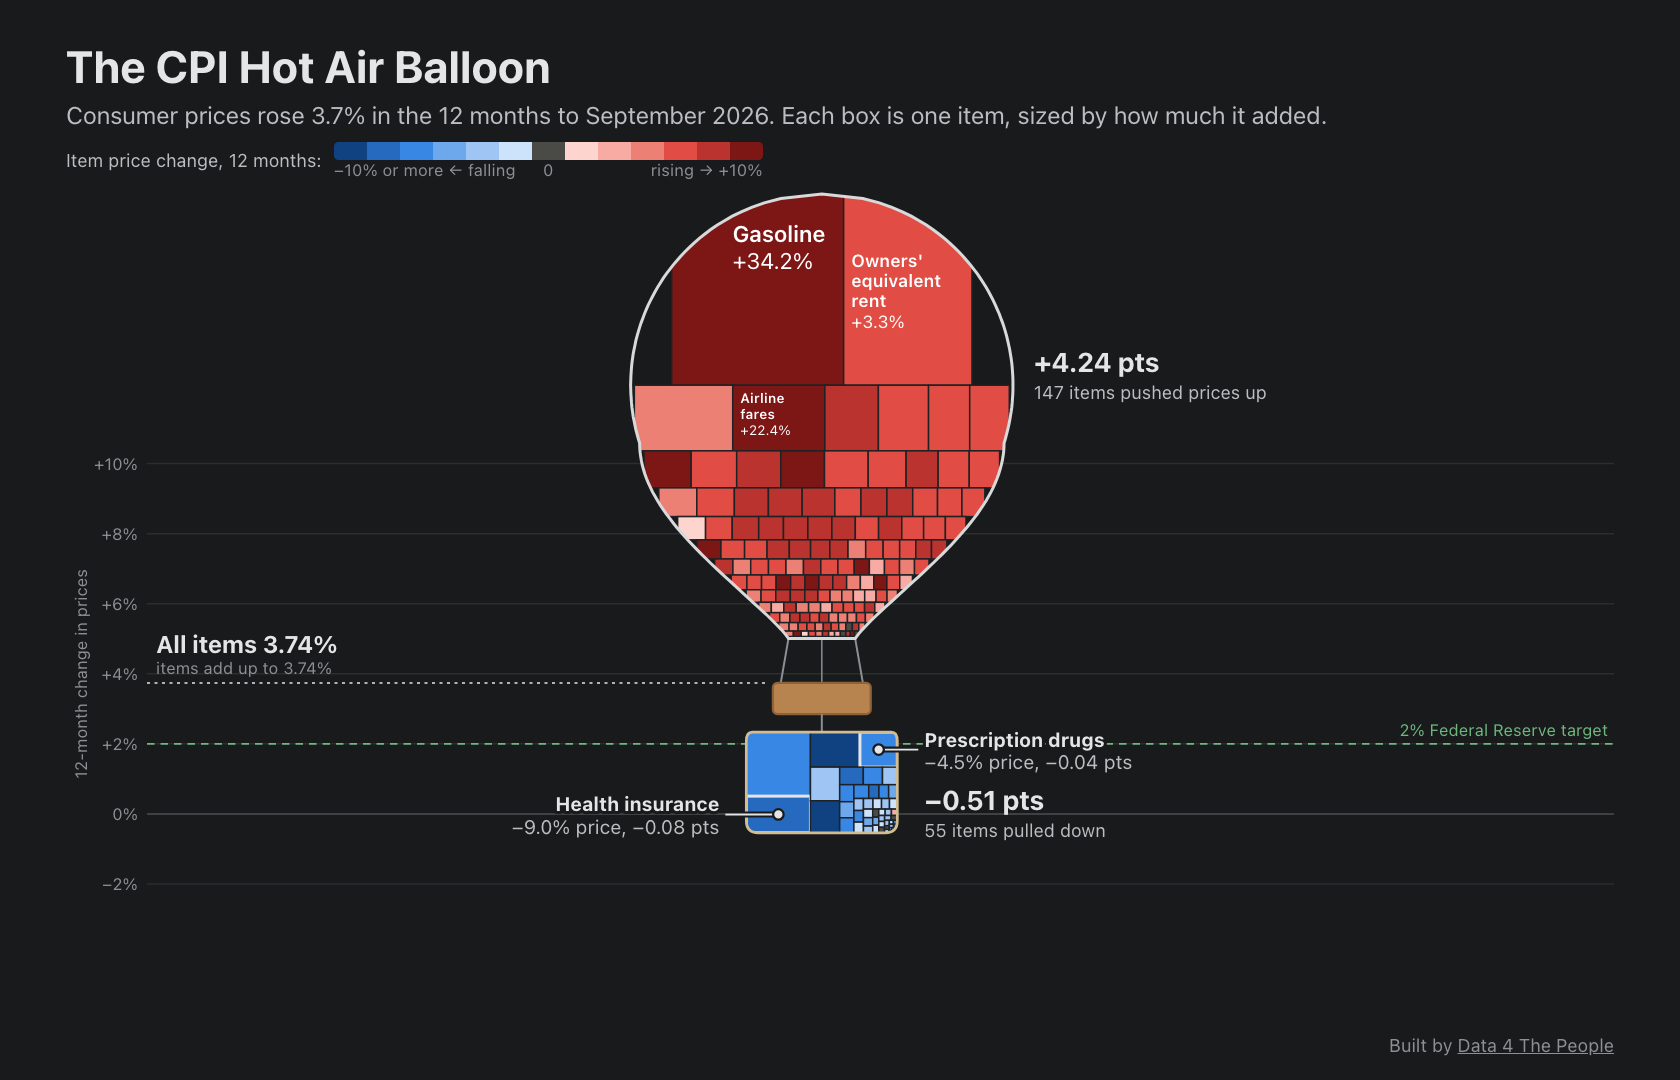
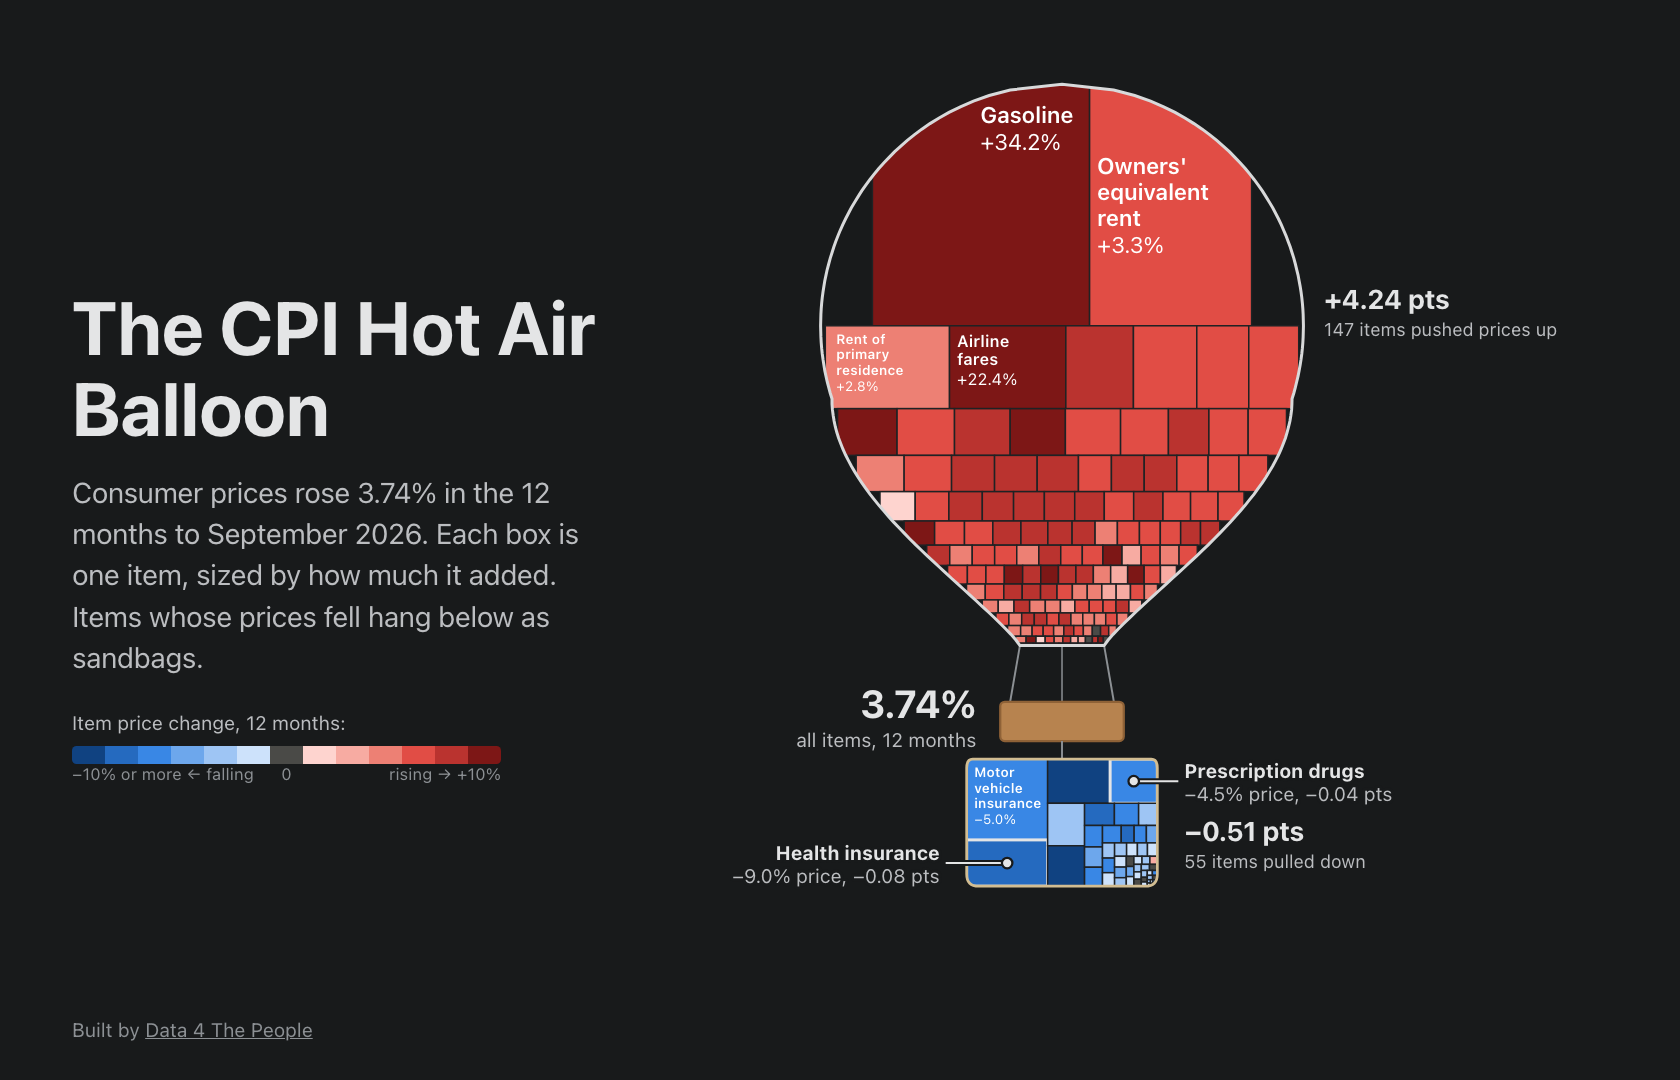
cpi-september-2026: back to 2d, hero is the balloon alone with title at left; 2e front matter drafted

diff --git a/dist/index.html b/dist/index.html
@@ -77,13 +77,19 @@ body.series #timeline{display:flex}
 #strip{flex:1;min-width:0;height:52px;display:block;cursor:pointer;touch-action:none}
 #note{display:none;font-size:11.5px;color:var(--muted);padding-top:3px}
 body.series #note{display:block;min-height:16px}
-/* #hero: a still for the post's hero image; no controls, a larger balloon. */
-body.hero #app{height:100vh;max-width:none;padding:26px 44px 16px}
-body.hero .seg,body.hero #timeline,body.hero #note,body.hero #source{display:none}
-body.hero header h1{font-size:30px}
-body.hero header p{font-size:16px}
-body.hero #controls{margin:6px 0 0}
-body.hero footer{justify-content:flex-end;font-size:12px}
+/* #hero: a still for the post's hero image. The balloon alone on the right, no axis;
+   the title, a line of text and the color key on the left. */
+body.hero #app{height:100vh;max-width:none;padding:40px 48px 26px;display:grid;
+  grid-template-columns:36% 1fr;grid-template-rows:1fr auto auto 1fr auto;column-gap:28px}
+body.hero header{grid-column:1;grid-row:2}
+body.hero #controls{grid-column:1;grid-row:3;margin:22px 0 0}
+body.hero #stage{grid-column:2;grid-row:1 / 6}
+body.hero #side{display:none}
+body.hero footer{grid-column:1;grid-row:5;font-size:13px}
+body.hero .seg,body.hero #source{display:none}
+body.hero header h1{font-size:50px;line-height:1.08;margin-bottom:16px}
+body.hero header p{font-size:19px;line-height:1.45}
+body.hero #legend{font-size:13px}
 @container (max-width:620px){
   #when{min-width:84px;font-size:13px}
   #timeline{flex-wrap:wrap;row-gap:4px}
@@ -357,7 +363,7 @@ function render() {
   $('#dek').textContent = `${what} ${verb} ${Math.abs(V.published).toFixed(2)}% in the 12 months to ${M.label}. Each box is one item: its size is how much it added, its color is how much its own price changed. Items that lowered inflation hang below as sandbags.` +
     (SERIES ? ' The balloon grows with the total pushing prices up.' : '');
   if (HERO) { $('#title').textContent = 'The CPI Hot Air Balloon';
-    $('#dek').textContent = `${what} ${verb} ${Math.abs(V.published).toFixed(1)}% in the 12 months to ${M.label}. Each box is one item, sized by how much it added.`; }
+    $('#dek').textContent = `${what} ${verb} ${Math.abs(V.published).toFixed(2)}% in the 12 months to ${M.label}. Each box is one item, sized by how much it added. Items whose prices fell hang below as sandbags.`; }
   if (SERIES) { $('#when').textContent = M.label; $('#note').textContent = M.note || ''; drawStrip(); }
   $('#source').textContent = DATA.source;
   legend();
@@ -368,7 +374,7 @@ function render() {
   const axisX = narrow ? 34 : 54;
   // Fixed envelope size so later months are drawn at the same size.
   // The timeline version draws its largest balloon a bit smaller, leaving room for the altitude to move.
-  const envHMax = Math.min(H * (HERO ? 0.62 : SERIES ? 0.44 : 0.48), (W - axisX - 30) / (2 * 0.43) * 0.98);
+  const envHMax = Math.min(H * (HERO ? 0.66 : SERIES ? 0.44 : 0.48), (W - axisX - 30) / (2 * 0.43) * 0.98);
   const basketH = Math.max(18, envHMax * 0.07), basketW = envHMax * 0.22;
   const rank = RANK[state.view];
   const order = SERIES ? (a, b) => (rank[b.id] - rank[a.id]) || (b.v - a.v) : (a, b) => b.v - a.v;
@@ -388,7 +394,11 @@ function render() {
   // Altitude: the basket's top edge sits at the rate on the axis.
   const ax = DATA.axis;
   let yOf;
-  if (!SERIES && !HERO) {
+  if (HERO) {
+    const up = envH + ropeH, dn = basketH + tether + sackH;
+    const base = (H - up - dn) / 2 + up;
+    yOf = () => base;
+  } else if (!SERIES) {
     const top = 10 + above, bottom = H - below - 6;
     yOf = r => bottom - (r - ax.min) / (ax.max - ax.min) * (bottom - top);
   } else {
@@ -409,7 +419,7 @@ function render() {
   }
 
   // axis and grid
-  const ag = el('g', {}, svg);
+  const ag = el('g', HERO ? { display: 'none' } : {}, svg);
   for (let r = ax.min; r <= ax.max + 1e-9; r += ax.step) {
     const y = yOf(r);
     el('line', { x1: axisX, x2: W, y1: y, y2: y, stroke: r === 0 ? css('--axis') : css('--grid'), 'stroke-width': 1 }, ag);
@@ -424,7 +434,7 @@ function render() {
   }
 
   // the balloon group, translated to its altitude
-  const cx = axisX + (W - axisX) * (narrow ? 0.5 : 0.46);
+  const cx = HERO ? W * 0.42 : axisX + (W - axisX) * (narrow ? 0.5 : 0.46);
   const mover = el('g', { id: 'mover' }, svg);
   const baseY = yOf(V.published);
   const prev = svg.dataset.lastY ? +svg.dataset.lastY : baseY;
@@ -491,11 +501,19 @@ function render() {
   }
   // altitude marker: the published rate at the basket
   const mk = el('g', {}, mover);
+  if (HERO) {
+    const tx = cx - basketW / 2 - 16;
+    const h1 = el('text', { x: tx, y: baseY + basketH / 2 - 2, 'text-anchor': 'end', fill: css('--ink'), 'font-size': 26, class: 'big' }, mk);
+    h1.textContent = `${V.published.toFixed(2)}%`;
+    const h2 = el('text', { x: tx, y: baseY + basketH / 2 + 17, 'text-anchor': 'end', fill: css('--ink-2'), 'font-size': 13 }, mk);
+    h2.textContent = state.view === 'core' ? 'core CPI, 12 months' : 'all items, 12 months';
+  } else {
   el('line', { x1: axisX, x2: cx - basketW / 2 - 4, y1: baseY, y2: baseY, stroke: css('--ink'), 'stroke-width': 1, 'stroke-dasharray': '2 3' }, mk);
   const tag = el('text', { x: axisX + 6, y: baseY - 20, fill: css('--ink'), 'font-size': narrow ? 14 : 16, class: 'big' }, mk);
   tag.textContent = `${state.view === 'core' ? 'Core' : 'All items'} ${V.published.toFixed(2)}%`;
   const sub = el('text', { x: axisX + 6, y: baseY - 6, fill: css('--muted'), 'font-size': 11 }, mk);
   sub.textContent = `items add up to ${V.sum.toFixed(2)}%`;
+  }
   // glide from the previous altitude
   requestAnimationFrame(() => requestAnimationFrame(() => { mover.style.transition = ''; mover.style.transitionDuration = glide; mover.style.transform = 'translate(0px,0px)'; }));
   svg.dataset.lastY = baseY;

diff --git a/dist/over-time.html b/dist/over-time.html
@@ -77,13 +77,19 @@ body.series #timeline{display:flex}
 #strip{flex:1;min-width:0;height:52px;display:block;cursor:pointer;touch-action:none}
 #note{display:none;font-size:11.5px;color:var(--muted);padding-top:3px}
 body.series #note{display:block;min-height:16px}
-/* #hero: a still for the post's hero image; no controls, a larger balloon. */
-body.hero #app{height:100vh;max-width:none;padding:26px 44px 16px}
-body.hero .seg,body.hero #timeline,body.hero #note,body.hero #source{display:none}
-body.hero header h1{font-size:30px}
-body.hero header p{font-size:16px}
-body.hero #controls{margin:6px 0 0}
-body.hero footer{justify-content:flex-end;font-size:12px}
+/* #hero: a still for the post's hero image. The balloon alone on the right, no axis;
+   the title, a line of text and the color key on the left. */
+body.hero #app{height:100vh;max-width:none;padding:40px 48px 26px;display:grid;
+  grid-template-columns:36% 1fr;grid-template-rows:1fr auto auto 1fr auto;column-gap:28px}
+body.hero header{grid-column:1;grid-row:2}
+body.hero #controls{grid-column:1;grid-row:3;margin:22px 0 0}
+body.hero #stage{grid-column:2;grid-row:1 / 6}
+body.hero #side{display:none}
+body.hero footer{grid-column:1;grid-row:5;font-size:13px}
+body.hero .seg,body.hero #source{display:none}
+body.hero header h1{font-size:50px;line-height:1.08;margin-bottom:16px}
+body.hero header p{font-size:19px;line-height:1.45}
+body.hero #legend{font-size:13px}
 @container (max-width:620px){
   #when{min-width:84px;font-size:13px}
   #timeline{flex-wrap:wrap;row-gap:4px}
@@ -357,7 +363,7 @@ function render() {
   $('#dek').textContent = `${what} ${verb} ${Math.abs(V.published).toFixed(2)}% in the 12 months to ${M.label}. Each box is one item: its size is how much it added, its color is how much its own price changed. Items that lowered inflation hang below as sandbags.` +
     (SERIES ? ' The balloon grows with the total pushing prices up.' : '');
   if (HERO) { $('#title').textContent = 'The CPI Hot Air Balloon';
-    $('#dek').textContent = `${what} ${verb} ${Math.abs(V.published).toFixed(1)}% in the 12 months to ${M.label}. Each box is one item, sized by how much it added.`; }
+    $('#dek').textContent = `${what} ${verb} ${Math.abs(V.published).toFixed(2)}% in the 12 months to ${M.label}. Each box is one item, sized by how much it added. Items whose prices fell hang below as sandbags.`; }
   if (SERIES) { $('#when').textContent = M.label; $('#note').textContent = M.note || ''; drawStrip(); }
   $('#source').textContent = DATA.source;
   legend();
@@ -368,7 +374,7 @@ function render() {
   const axisX = narrow ? 34 : 54;
   // Fixed envelope size so later months are drawn at the same size.
   // The timeline version draws its largest balloon a bit smaller, leaving room for the altitude to move.
-  const envHMax = Math.min(H * (HERO ? 0.62 : SERIES ? 0.44 : 0.48), (W - axisX - 30) / (2 * 0.43) * 0.98);
+  const envHMax = Math.min(H * (HERO ? 0.66 : SERIES ? 0.44 : 0.48), (W - axisX - 30) / (2 * 0.43) * 0.98);
   const basketH = Math.max(18, envHMax * 0.07), basketW = envHMax * 0.22;
   const rank = RANK[state.view];
   const order = SERIES ? (a, b) => (rank[b.id] - rank[a.id]) || (b.v - a.v) : (a, b) => b.v - a.v;
@@ -388,7 +394,11 @@ function render() {
   // Altitude: the basket's top edge sits at the rate on the axis.
   const ax = DATA.axis;
   let yOf;
-  if (!SERIES && !HERO) {
+  if (HERO) {
+    const up = envH + ropeH, dn = basketH + tether + sackH;
+    const base = (H - up - dn) / 2 + up;
+    yOf = () => base;
+  } else if (!SERIES) {
     const top = 10 + above, bottom = H - below - 6;
     yOf = r => bottom - (r - ax.min) / (ax.max - ax.min) * (bottom - top);
   } else {
@@ -409,7 +419,7 @@ function render() {
   }
 
   // axis and grid
-  const ag = el('g', {}, svg);
+  const ag = el('g', HERO ? { display: 'none' } : {}, svg);
   for (let r = ax.min; r <= ax.max + 1e-9; r += ax.step) {
     const y = yOf(r);
     el('line', { x1: axisX, x2: W, y1: y, y2: y, stroke: r === 0 ? css('--axis') : css('--grid'), 'stroke-width': 1 }, ag);
@@ -424,7 +434,7 @@ function render() {
   }
 
   // the balloon group, translated to its altitude
-  const cx = axisX + (W - axisX) * (narrow ? 0.5 : 0.46);
+  const cx = HERO ? W * 0.42 : axisX + (W - axisX) * (narrow ? 0.5 : 0.46);
   const mover = el('g', { id: 'mover' }, svg);
   const baseY = yOf(V.published);
   const prev = svg.dataset.lastY ? +svg.dataset.lastY : baseY;
@@ -491,11 +501,19 @@ function render() {
   }
   // altitude marker: the published rate at the basket
   const mk = el('g', {}, mover);
+  if (HERO) {
+    const tx = cx - basketW / 2 - 16;
+    const h1 = el('text', { x: tx, y: baseY + basketH / 2 - 2, 'text-anchor': 'end', fill: css('--ink'), 'font-size': 26, class: 'big' }, mk);
+    h1.textContent = `${V.published.toFixed(2)}%`;
+    const h2 = el('text', { x: tx, y: baseY + basketH / 2 + 17, 'text-anchor': 'end', fill: css('--ink-2'), 'font-size': 13 }, mk);
+    h2.textContent = state.view === 'core' ? 'core CPI, 12 months' : 'all items, 12 months';
+  } else {
   el('line', { x1: axisX, x2: cx - basketW / 2 - 4, y1: baseY, y2: baseY, stroke: css('--ink'), 'stroke-width': 1, 'stroke-dasharray': '2 3' }, mk);
   const tag = el('text', { x: axisX + 6, y: baseY - 20, fill: css('--ink'), 'font-size': narrow ? 14 : 16, class: 'big' }, mk);
   tag.textContent = `${state.view === 'core' ? 'Core' : 'All items'} ${V.published.toFixed(2)}%`;
   const sub = el('text', { x: axisX + 6, y: baseY - 6, fill: css('--muted'), 'font-size': 11 }, mk);
   sub.textContent = `items add up to ${V.sum.toFixed(2)}%`;
+  }
   // glide from the previous altitude
   requestAnimationFrame(() => requestAnimationFrame(() => { mover.style.transition = ''; mover.style.transitionDuration = glide; mover.style.transform = 'translate(0px,0px)'; }));
   svg.dataset.lastY = baseY;

diff --git a/src/template.html b/src/template.html
@@ -72,13 +72,19 @@ body.series #timeline{display:flex}
 #strip{flex:1;min-width:0;height:52px;display:block;cursor:pointer;touch-action:none}
 #note{display:none;font-size:11.5px;color:var(--muted);padding-top:3px}
 body.series #note{display:block;min-height:16px}
-/* #hero: a still for the post's hero image; no controls, a larger balloon. */
-body.hero #app{height:100vh;max-width:none;padding:26px 44px 16px}
-body.hero .seg,body.hero #timeline,body.hero #note,body.hero #source{display:none}
-body.hero header h1{font-size:30px}
-body.hero header p{font-size:16px}
-body.hero #controls{margin:6px 0 0}
-body.hero footer{justify-content:flex-end;font-size:12px}
+/* #hero: a still for the post's hero image. The balloon alone on the right, no axis;
+   the title, a line of text and the color key on the left. */
+body.hero #app{height:100vh;max-width:none;padding:40px 48px 26px;display:grid;
+  grid-template-columns:36% 1fr;grid-template-rows:1fr auto auto 1fr auto;column-gap:28px}
+body.hero header{grid-column:1;grid-row:2}
+body.hero #controls{grid-column:1;grid-row:3;margin:22px 0 0}
+body.hero #stage{grid-column:2;grid-row:1 / 6}
+body.hero #side{display:none}
+body.hero footer{grid-column:1;grid-row:5;font-size:13px}
+body.hero .seg,body.hero #source{display:none}
+body.hero header h1{font-size:50px;line-height:1.08;margin-bottom:16px}
+body.hero header p{font-size:19px;line-height:1.45}
+body.hero #legend{font-size:13px}
 @container (max-width:620px){
   #when{min-width:84px;font-size:13px}
   #timeline{flex-wrap:wrap;row-gap:4px}
@@ -349,7 +355,7 @@ function render() {
   $('#dek').textContent = `${what} ${verb} ${Math.abs(V.published).toFixed(2)}% in the 12 months to ${M.label}. Each box is one item: its size is how much it added, its color is how much its own price changed. Items that lowered inflation hang below as sandbags.` +
     (SERIES ? ' The balloon grows with the total pushing prices up.' : '');
   if (HERO) { $('#title').textContent = 'The CPI Hot Air Balloon';
-    $('#dek').textContent = `${what} ${verb} ${Math.abs(V.published).toFixed(1)}% in the 12 months to ${M.label}. Each box is one item, sized by how much it added.`; }
+    $('#dek').textContent = `${what} ${verb} ${Math.abs(V.published).toFixed(2)}% in the 12 months to ${M.label}. Each box is one item, sized by how much it added. Items whose prices fell hang below as sandbags.`; }
   if (SERIES) { $('#when').textContent = M.label; $('#note').textContent = M.note || ''; drawStrip(); }
   $('#source').textContent = DATA.source;
   legend();
@@ -360,7 +366,7 @@ function render() {
   const axisX = narrow ? 34 : 54;
   // Fixed envelope size so later months are drawn at the same size.
   // The timeline version draws its largest balloon a bit smaller, leaving room for the altitude to move.
-  const envHMax = Math.min(H * (HERO ? 0.62 : SERIES ? 0.44 : 0.48), (W - axisX - 30) / (2 * 0.43) * 0.98);
+  const envHMax = Math.min(H * (HERO ? 0.66 : SERIES ? 0.44 : 0.48), (W - axisX - 30) / (2 * 0.43) * 0.98);
   const basketH = Math.max(18, envHMax * 0.07), basketW = envHMax * 0.22;
   const rank = RANK[state.view];
   const order = SERIES ? (a, b) => (rank[b.id] - rank[a.id]) || (b.v - a.v) : (a, b) => b.v - a.v;
@@ -380,7 +386,11 @@ function render() {
   // Altitude: the basket's top edge sits at the rate on the axis.
   const ax = DATA.axis;
   let yOf;
-  if (!SERIES && !HERO) {
+  if (HERO) {
+    const up = envH + ropeH, dn = basketH + tether + sackH;
+    const base = (H - up - dn) / 2 + up;
+    yOf = () => base;
+  } else if (!SERIES) {
     const top = 10 + above, bottom = H - below - 6;
     yOf = r => bottom - (r - ax.min) / (ax.max - ax.min) * (bottom - top);
   } else {
@@ -401,7 +411,7 @@ function render() {
   }
 
   // axis and grid
-  const ag = el('g', {}, svg);
+  const ag = el('g', HERO ? { display: 'none' } : {}, svg);
   for (let r = ax.min; r <= ax.max + 1e-9; r += ax.step) {
     const y = yOf(r);
     el('line', { x1: axisX, x2: W, y1: y, y2: y, stroke: r === 0 ? css('--axis') : css('--grid'), 'stroke-width': 1 }, ag);
@@ -416,7 +426,7 @@ function render() {
   }
 
   // the balloon group, translated to its altitude
-  const cx = axisX + (W - axisX) * (narrow ? 0.5 : 0.46);
+  const cx = HERO ? W * 0.42 : axisX + (W - axisX) * (narrow ? 0.5 : 0.46);
   const mover = el('g', { id: 'mover' }, svg);
   const baseY = yOf(V.published);
   const prev = svg.dataset.lastY ? +svg.dataset.lastY : baseY;
@@ -483,11 +493,19 @@ function render() {
   }
   // altitude marker: the published rate at the basket
   const mk = el('g', {}, mover);
+  if (HERO) {
+    const tx = cx - basketW / 2 - 16;
+    const h1 = el('text', { x: tx, y: baseY + basketH / 2 - 2, 'text-anchor': 'end', fill: css('--ink'), 'font-size': 26, class: 'big' }, mk);
+    h1.textContent = `${V.published.toFixed(2)}%`;
+    const h2 = el('text', { x: tx, y: baseY + basketH / 2 + 17, 'text-anchor': 'end', fill: css('--ink-2'), 'font-size': 13 }, mk);
+    h2.textContent = state.view === 'core' ? 'core CPI, 12 months' : 'all items, 12 months';
+  } else {
   el('line', { x1: axisX, x2: cx - basketW / 2 - 4, y1: baseY, y2: baseY, stroke: css('--ink'), 'stroke-width': 1, 'stroke-dasharray': '2 3' }, mk);
   const tag = el('text', { x: axisX + 6, y: baseY - 20, fill: css('--ink'), 'font-size': narrow ? 14 : 16, class: 'big' }, mk);
   tag.textContent = `${state.view === 'core' ? 'Core' : 'All items'} ${V.published.toFixed(2)}%`;
   const sub = el('text', { x: axisX + 6, y: baseY - 6, fill: css('--muted'), 'font-size': 11 }, mk);
   sub.textContent = `items add up to ${V.sum.toFixed(2)}%`;
+  }
   // glide from the previous altitude
   requestAnimationFrame(() => requestAnimationFrame(() => { mover.style.transition = ''; mover.style.transitionDuration = glide; mover.style.transform = 'translate(0px,0px)'; }));
   svg.dataset.lastY = baseY;

diff --git a/posts/cpi-september-2026/POST.md b/posts/cpi-september-2026/POST.md
@@ -6,11 +6,26 @@ date: 2026-10-15
 time: 06:30:00-04:00
 section: Data 4 Thought
 hero: images/cpi-september-2026-hero-1680x1080.png
-hero_alt: A hot air balloon on a dark background, titled The CPI Hot Air Balloon. The balloon is a patchwork of red boxes, one for each item whose price rose in the 12 months to September 2026; the largest are gasoline, up 34.2%, and owners' equivalent rent. A sandbag of blue boxes hangs below for items whose prices fell, with health insurance and prescription drugs labeled. The basket sits at 3.74% on a scale of 12-month inflation, above a dashed line at the 2% Federal Reserve target.
-meta_title:
-description:
-keywords:
-schema_type: article
+hero_alt: On a dark background, the words The CPI Hot Air Balloon sit at left beside a large hot air balloon. The balloon is a patchwork of red boxes, one for each item whose price rose in the 12 months to September 2026; the largest are gasoline, up 34.2%, and owners' equivalent rent. Beside the basket reads 3.74%, all items. A sandbag of blue boxes hangs below for items whose prices fell, with health insurance and prescription drugs labeled.
+meta_title: What's driving CPI? Every item, every month since 2016
+description: See which of 204 items are driving CPI inflation, every month since 2016. In September 2026, gasoline and shelter added 60% of the 3.7% rise. Free tool.
+keywords: what is driving CPI, what is driving inflation, CPI breakdown by item, CPI contributions by component, core CPI drivers, CPI components chart, September 2026 CPI, CPI hot air balloon
+schema_type: dataset
+dataset_name: Contributions of each CPI-U item to 12-month inflation, October 2016 to September 2026
+dataset_description: How many percentage points each of the 204 most detailed items in the Consumer Price Index for All Urban Consumers (CPI-U, U.S. city average, not seasonally adjusted) added to or subtracted from 12-month headline and core inflation, every month from October 2016 to September 2026. Item contributions add up to the published BLS rates in every month.
+temporal: 2016-10/2026-09
+spatial: United States
+measured: Contribution to 12-month CPI-U change|percentage points; Contribution to 12-month core CPI change|percentage points; 12-month price change by item|percent; Relative importance (share of consumer spending)|percent
+sources: https://www.bls.gov/cpi/ | https://www.bls.gov/cpi/tables/relative-importance/
+distribution: text/csv|https://raw.githubusercontent.com/Data4ThePeople/CPI_analysis/main/data/processed/monthly_items.csv; text/csv|https://raw.githubusercontent.com/Data4ThePeople/CPI_analysis/main/data/processed/monthly_summary.csv
+measurement_technique: Chained contributions: each item's relative importance times its price change, split at BLS's January weight update so items add up to the published 12-month change.
+credit: Data 4 The People; source data U.S. Bureau of Labor Statistics
+same_as: https://github.com/Data4ThePeople/CPI_analysis
+app_url: https://data4thepeople.github.io/CPI_analysis/dist/over-time.html
+app_name: The CPI Hot Air Balloon
+app_description: An interactive chart that shows which items pushed U.S. consumer prices up and down each month since October 2016, drawn as a hot air balloon that rises and falls with inflation.
+app_features: Every CPI item sized by its contribution to inflation | Headline and core CPI | Monthly animation from October 2016 | Table view | Free, no sign-up
+app_category: EducationalApplication
 drop_cap: true
 heading_spacer: 20px
 caption_spacer: 20px

diff --git a/STATUS.md b/STATUS.md
@@ -6,7 +6,7 @@ Process: ~/.claude/d4tp-process/PROCESS.md
 ## Current
 
 Post: cpi-september-2026
-Step: 2e (not started)
+Step: 2d (reopened: hero redesign; 2e work in progress kept on disk)
 Since: 2026-10-14
 
 ## Steps
@@ -59,3 +59,7 @@ None.
   October 15, 2026.
 - 2026-10-14 Step 2d confirmed by Eric. Hero is the September 2026 balloon,
   rendered by build.py from dist/index.html#hero&theme=dark.
+- 2026-10-14 Step 2d reopened by Eric during 2e: hero redone as the balloon alone
+  (no axis), 3.74% beside the basket, title and text at left. No later step
+  had been confirmed, so nothing is stale. 2e front matter (meta, keywords,
+  dataset schema) is drafted in POST.md and resumes after 2d.
